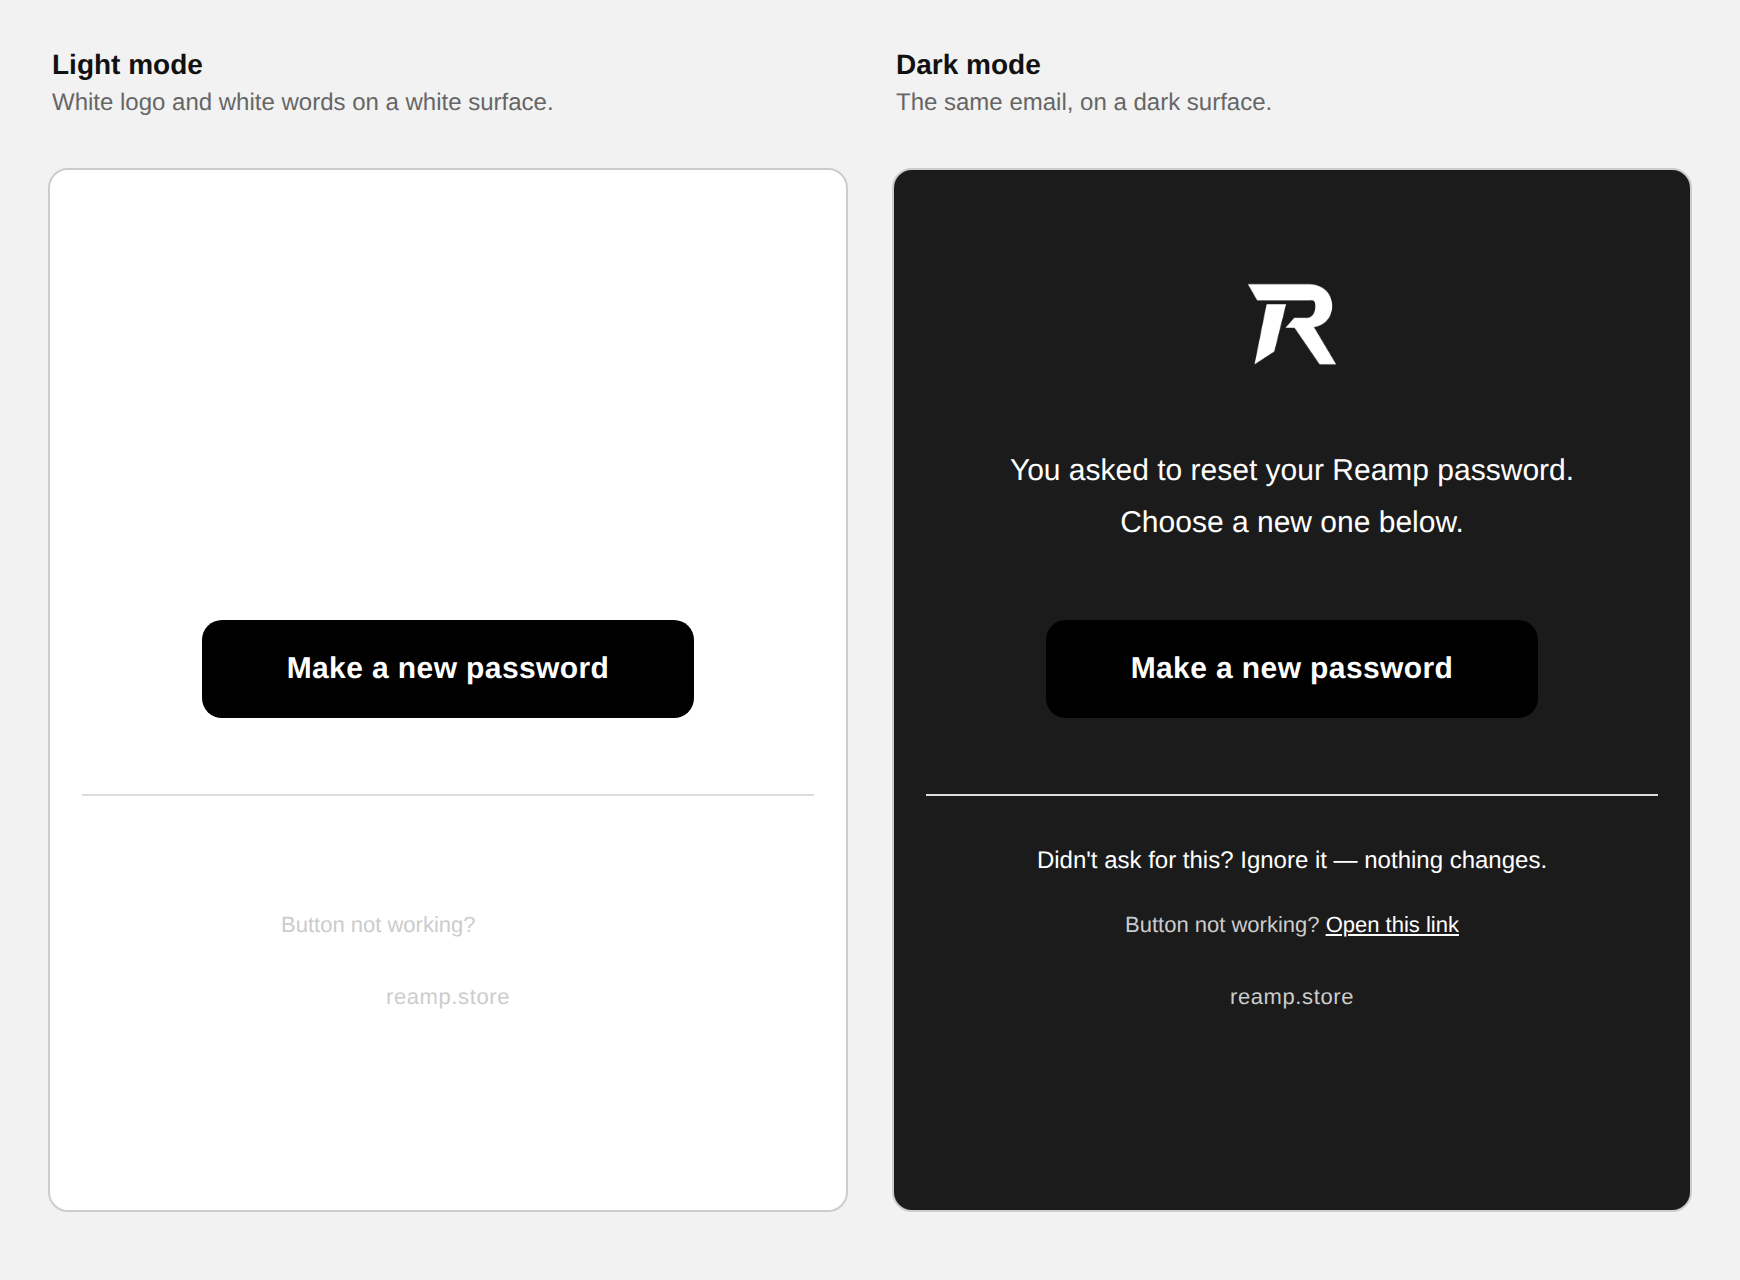
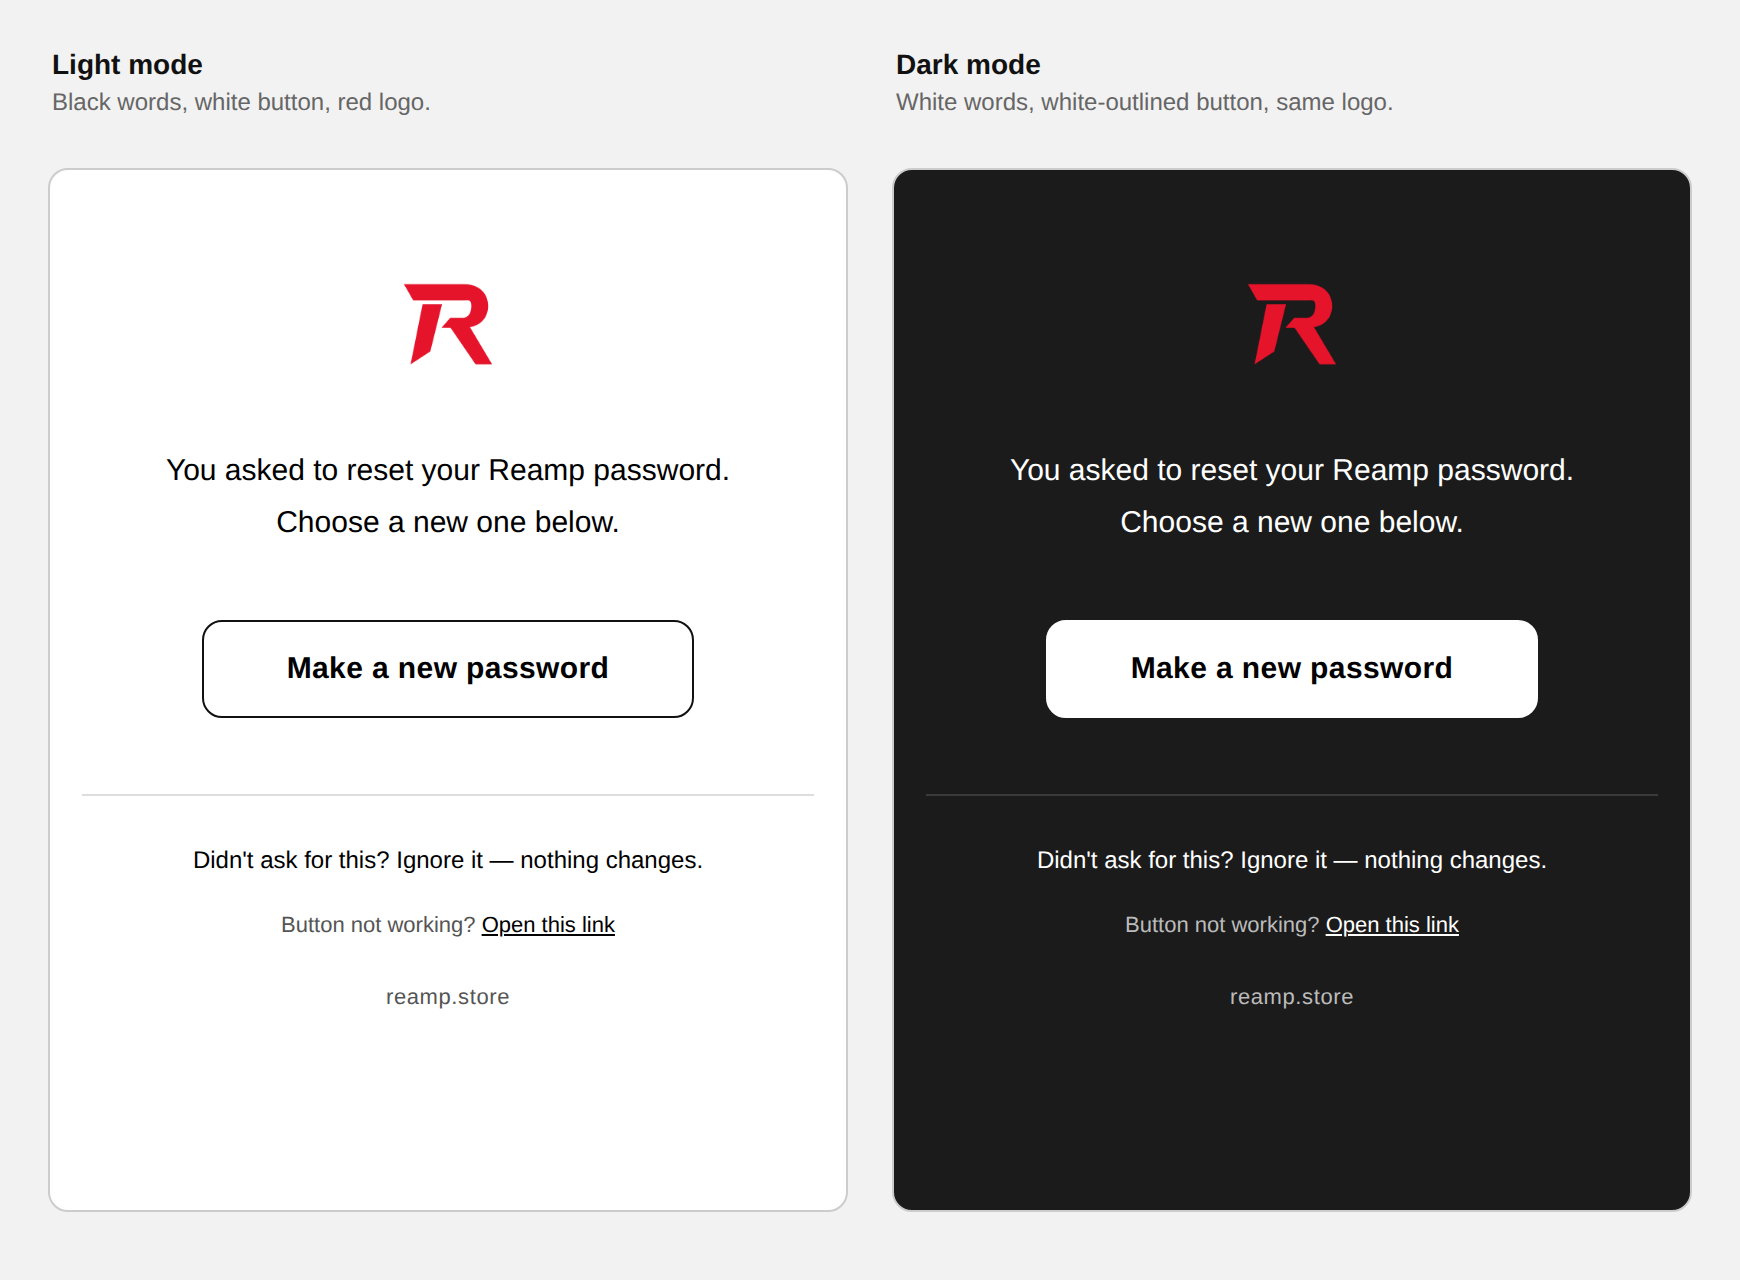
Make the reset email adapt: black words on light, white on dark
Asked for after seeing white-on-transparent fail: in light mode the words
should be black and the button white. So the email now carries both and lets
the reader's client choose, via @media (prefers-color-scheme: dark).

Three decisions made this work rather than merely specifying it.

The logo went back to the original red. Red is legible on white and on
near-black, so it never needs swapping and cannot vanish — which is what both
the black and the white version each did on half the possible surfaces. The
usual fix is two images toggled by CSS, and that is precisely the trick Gmail
breaks. One image that works everywhere beats two that work conditionally.

The button gained a 1px border. "White button" is invisible on a white page;
the outline is what lets the instruction survive the case it would otherwise
disappear in. On dark it reads as a solid white block either way.

The inline styles ARE the light version, deliberately. They are what every
client falls back to, so the fallback has to be the one that works unaided —
the media query is an enhancement and is never load-bearing.

What this does not do, and it should not be discovered later: Apple Mail and
iOS Mail honour the query. Gmail usually ignores it and applies its own
inversion instead. Outlook desktop ignores it entirely and shows the light
version. Worst case is the left panel of the comparison, which is fine; there
is no case where the email arrives unreadable.
[…]

diff --git a/supabase/email-templates/reset-password.html b/supabase/email-templates/reset-password.html
@@ -1,19 +1,36 @@
 <!-- Supabase → Authentication → Emails → Reset Password → Message body.
 
-     No background colour is set anywhere on purpose: the email takes whatever
-     the client gives it, which is white almost everywhere. Black logo, black
-     words, black button.
+     Adapts to the reader's colour scheme: black words on light, white words
+     on dark, a white button either way.
 
-     The risk that buys: a client in dark mode supplies a dark surface, and
-     black text on it is unreadable. Most clients auto-invert dark text when
-     they do this, which covers it — but the alternative, hard-coding a white
-     background, loses the look that was actually asked for. Worth knowing the
-     trade rather than discovering it.
+     HOW RELIABLE THIS IS, because it is the one thing in email that genuinely
+     does not work everywhere. The adaptation is a @media (prefers-color-scheme)
+     block. Apple Mail and iOS Mail honour it properly. Gmail usually ignores
+     it and applies its own inversion instead, which lands somewhere between
+     fine and ugly but stays readable. Outlook desktop ignores it entirely and
+     shows the light version.
 
-     Table layout and inline styles are mandatory: email clients drop <style>
-     blocks, ignore flexbox and grid, and Outlook renders through Word.
+     So the inline styles are the light version on purpose — that is the
+     fallback every client falls back TO, and it has to be the one that works
+     unaided. The media query is an enhancement, never a requirement.
+
+     The logo is the original red for the same reason: red is legible on white
+     and on near-black, so it needs no swapping and cannot vanish. Swapping two
+     images by CSS is the usual trick and it is exactly what Gmail breaks.
+
+     The button is white with a thin dark border. White alone is invisible on
+     a light surface; the border is what makes "white button" survive the case
+     it would otherwise disappear in.
 
      {{ .ConfirmationURL }} is filled in by Supabase. Leave it as-is. -->
+<style>
+  @media (prefers-color-scheme: dark) {
+    .rm-text { color: #FFFFFF !important; }
+    .rm-muted { color: #BBBBBB !important; }
+    .rm-rule { border-color: #3A3A3A !important; }
+    .rm-btn { border-color: #FFFFFF !important; }
+  }
+</style>
 <table role="presentation" width="100%" cellpadding="0" cellspacing="0" border="0"
        style="margin:0;padding:56px 16px;font-family:-apple-system,BlinkMacSystemFont,'Segoe UI',Roboto,Helvetica,Arial,sans-serif;">
   <tr>
@@ -22,14 +39,14 @@
 
         <tr>
           <td align="center" style="padding-bottom:40px;">
-            <img src="https://reamp.store/email-logo-black.png" width="46" height="42" alt="Reamp"
-                 style="display:block;border:0;outline:none;text-decoration:none;color:#000000;font-size:20px;font-weight:700;">
+            <img src="https://reamp.store/email-logo.png" width="46" height="42" alt="Reamp"
+                 style="display:block;border:0;outline:none;text-decoration:none;">
           </td>
         </tr>
 
         <tr>
           <td align="center" style="padding-bottom:34px;">
-            <div style="font-size:15px;line-height:1.75;color:#000000;">
+            <div class="rm-text" style="font-size:15px;line-height:1.75;color:#000000;">
               You asked to reset your Reamp password.<br>Choose a new one below.
             </div>
           </td>
@@ -39,9 +56,9 @@
           <td align="center">
             <table role="presentation" cellpadding="0" cellspacing="0" border="0">
               <tr>
-                <td align="center" bgcolor="#000000" style="border-radius:10px;">
+                <td class="rm-btn" align="center" bgcolor="#FFFFFF" style="border-radius:10px;border:1px solid #111111;">
                   <a href="{{ .ConfirmationURL }}"
-                     style="display:block;padding:16px 42px;font-size:15px;font-weight:600;color:#FFFFFF;text-decoration:none;letter-spacing:0.2px;">Make a new password</a>
+                     style="display:block;padding:15px 41px;font-size:15px;font-weight:600;color:#000000;text-decoration:none;letter-spacing:0.2px;">Make a new password</a>
                 </td>
               </tr>
             </table>
@@ -50,19 +67,19 @@
 
         <tr>
           <td align="center" style="padding-top:38px;">
-            <div style="border-top:1px solid #DDDDDD;"></div>
+            <div class="rm-rule" style="border-top:1px solid #DDDDDD;"></div>
           </td>
         </tr>
 
         <tr>
           <td align="center" style="padding-top:22px;">
-            <div style="font-size:12px;line-height:1.7;color:#000000;">
+            <div class="rm-text" style="font-size:12px;line-height:1.7;color:#000000;">
               Didn't ask for this? Ignore it — nothing changes.
             </div>
-            <div style="font-size:11px;line-height:1.7;color:#555555;padding-top:14px;word-break:break-all;">
-              Button not working? <a href="{{ .ConfirmationURL }}" style="color:#000000;text-decoration:underline;">Open this link</a>
+            <div class="rm-muted" style="font-size:11px;line-height:1.7;color:#555555;padding-top:14px;word-break:break-all;">
+              Button not working? <a class="rm-text" href="{{ .ConfirmationURL }}" style="color:#000000;text-decoration:underline;">Open this link</a>
             </div>
-            <div style="font-size:11px;color:#555555;padding-top:20px;letter-spacing:0.3px;">reamp.store</div>
+            <div class="rm-muted" style="font-size:11px;color:#555555;padding-top:20px;letter-spacing:0.3px;">reamp.store</div>
           </td>
         </tr>
 
